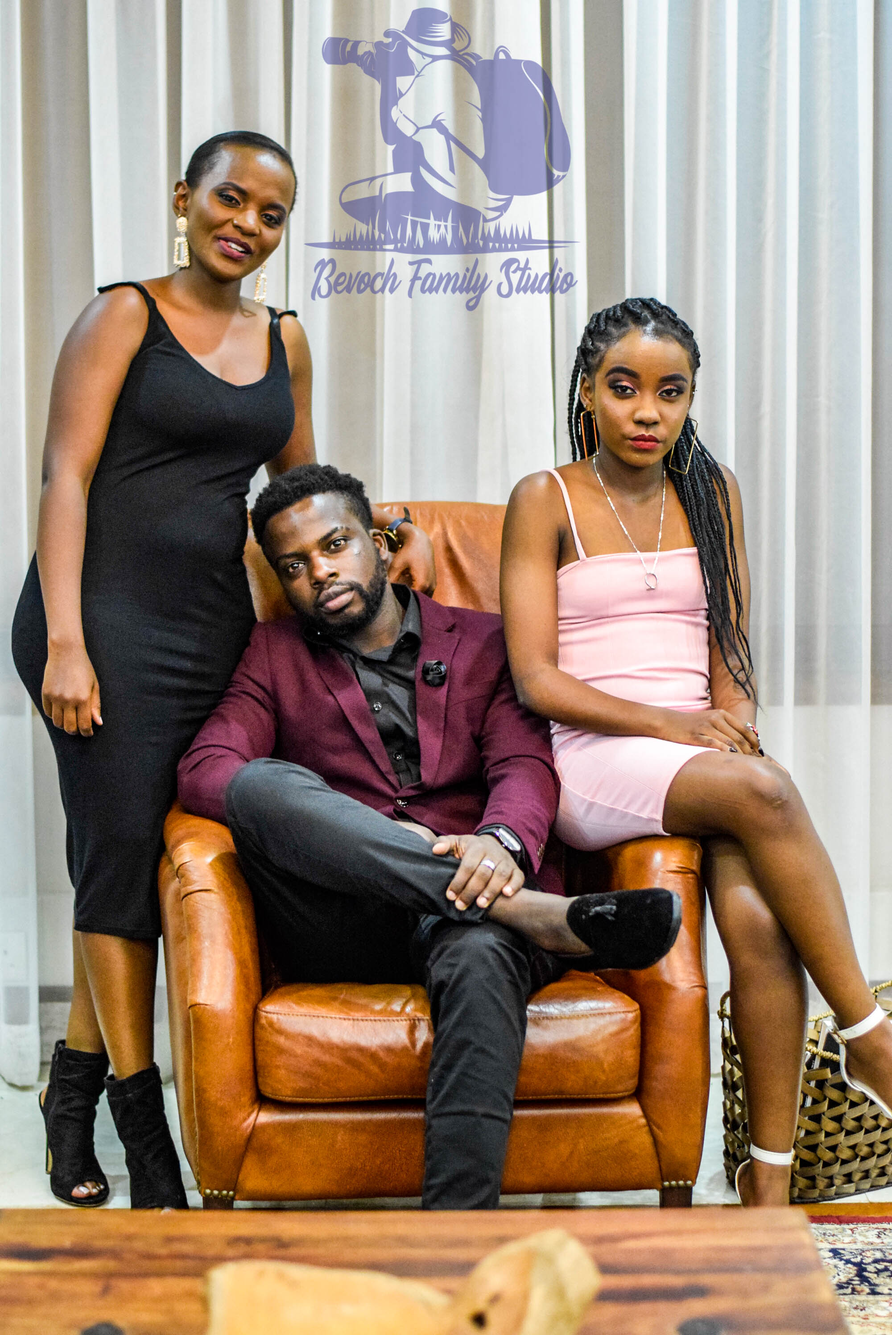
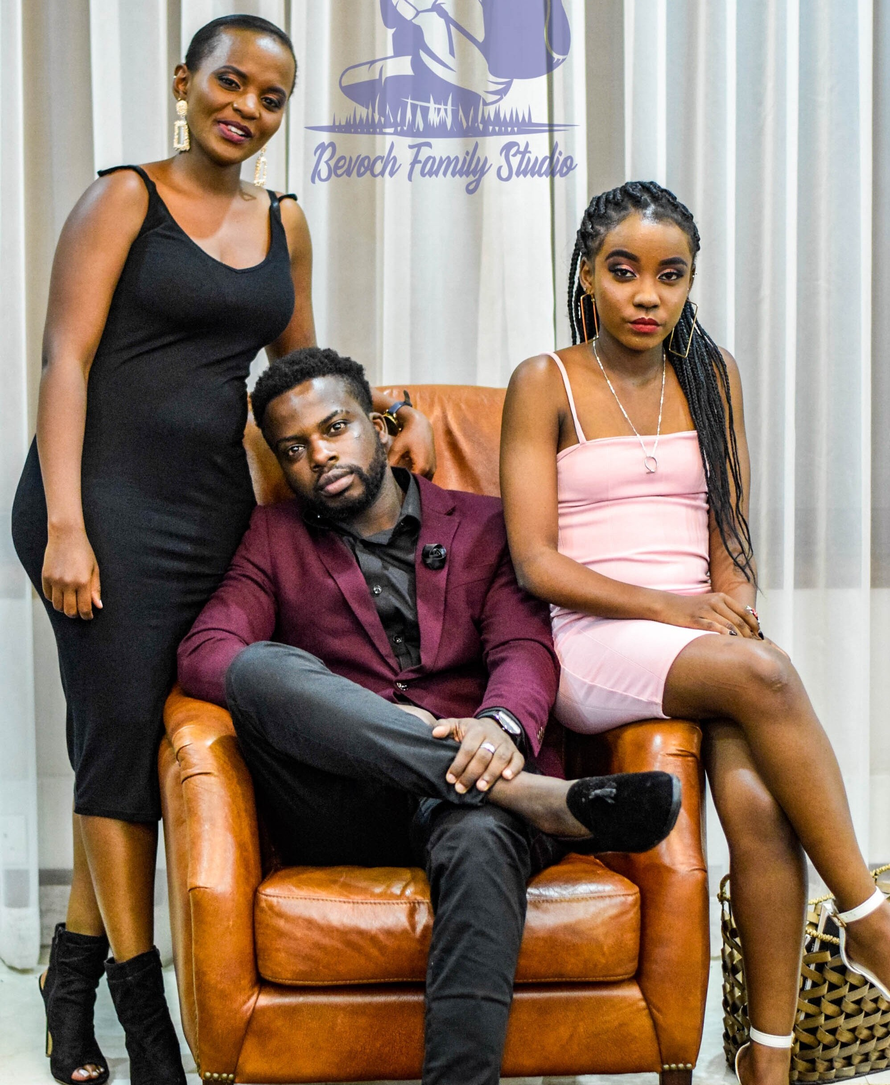
Landing Page Images

diff --git a/index.html b/index.html
@@ -157,7 +157,7 @@
                 </ol>
                 <div class="carousel-inner" role="listbox">
                   <div class="carousel-item active">
-                    <img src="img/slider/bg-11.JPG" alt="" />
+                    <img src="img/slider/bg-1.jpg" alt="" />
                     <div class="carousel-caption">
                       <h3 class="slide-title animated fadeInDown"><span>Bevoch</span> Family Studios</h3>
                       <h5 class="slide-text animated fadeIn">
@@ -170,7 +170,7 @@
                   <div class="carousel-item">
                     <img src="img/slider/bg-2.jpg" alt="" />
                     <div class="carousel-caption">
-                      <h3 class="slide-title animated fadeInDown"><span>Cutting-edge</span> Photography</h3>
+                      <h3 class="slide-title animated fadeInDown"><span>Cutting-Edge</span> Photography</h3>
                       <h5 class="slide-text animated fadeIn">
                         Lorem ipsum dolor sit amet, consectetuer adipiscing elit<br />
                         Curabitur ultricies nisi Nam eget dui. Etiam rhoncus
@@ -208,34 +208,35 @@
 
     <!-- About Section Start -->
     <div id="about" class="section-padding">
+      <h2 class="section-title wow fadeInDown animated" data-wow-delay="0.3s">About Us</h2>
       <div class="container">
         <div class="row">
           <div class="col-lg-3 col-md-6 col-xs-12">
             <div class="about block text-center">
               <img src="img/about/img1.png" alt="" />
-              <h5><a href="#">About Title</a></h5>
+              <h5><a href="#">Established</a></h5>
               <p>Quisque sit amet libero purus. Nulla a dignissim quam. In hac habitasse platea dictumst.</p>
             </div>
           </div>
           <div class="col-lg-3 col-md-6 col-xs-12">
             <div class="about block text-center">
               <img src="img/about/img2.png" alt="" />
-              <h5><a href="#">About Title</a></h5>
+              <h5><a href="#">Customer Satisfaction</a></h5>
               <p>Quisque sit amet libero purus. Nulla a dignissim quam. In hac habitasse platea dictumst.</p>
             </div>
           </div>
           <div class="col-lg-3 col-md-6 col-xs-12">
             <div class="about block text-center">
               <img src="img/about/img3.png" alt="" />
-              <h5><a href="#">About Title</a></h5>
-              <p>Quisque sit amet libero purus. Nulla a dignissim quam. In hac habitasse platea dictumst.</p>
+              <h5><a href="#">All About Family</a></h5>
+              <p>We Try Very Hard to Make it a Family Affair by Personalising Events to our Customers Needs at Bevoch Family Studios.</p>
             </div>
           </div>
           <div class="col-lg-3 col-md-6 col-xs-12">
             <div class="about block text-center">
-              <img src="img/about/img4.png" alt="" />
-              <h5><a href="#">About Title</a></h5>
-              <p>Quisque sit amet libero purus. Nulla a dignissim quam. In hac habitasse platea dictumst.</p>
+              <img src="img/about/img4.jpg" alt="" />
+              <h5><a href="#">New Technology</a></h5>
+              <p>Incorporating New Technology in Aerial Photography and Video Shooting to provide an Immersive Experience for our Customers.</p>
             </div>
           </div>
         </div>
@@ -291,7 +292,7 @@
                 <i class="fa fa-tachometer"></i>
               </div>
               <div class="service-content">
-                <h4><a href="#">Kra Services</a></h4>
+                <h4><a href="#">KRA Services</a></h4>
                 <p>
                   Lorem ipsum dolor sit amet, consectetur adipisicing elit. Recusandae architecto officiis consequuntur vero error excepturi.
                 </p>
@@ -307,7 +308,7 @@
                 <i class="fa fa-check"></i>
               </div>
               <div class="service-content">
-                <h4><a href="#">e-citizen Services</a></h4>
+                <h4><a href="#">E-Citizen Services</a></h4>
                 <p>
                   Lorem ipsum dolor sit amet, consectetur adipisicing elit. Recusandae architecto officiis consequuntur vero error excepturi.
                 </p>
@@ -894,7 +895,7 @@
                   </div>
                   <div class="testimonial-footer">
                     <i class="fa fa-user"></i> Pst
-                    <a href="#"> Mala</a>
+                    <a href="#">Mala</a>
                   </div>
                 </div>
               </div>
